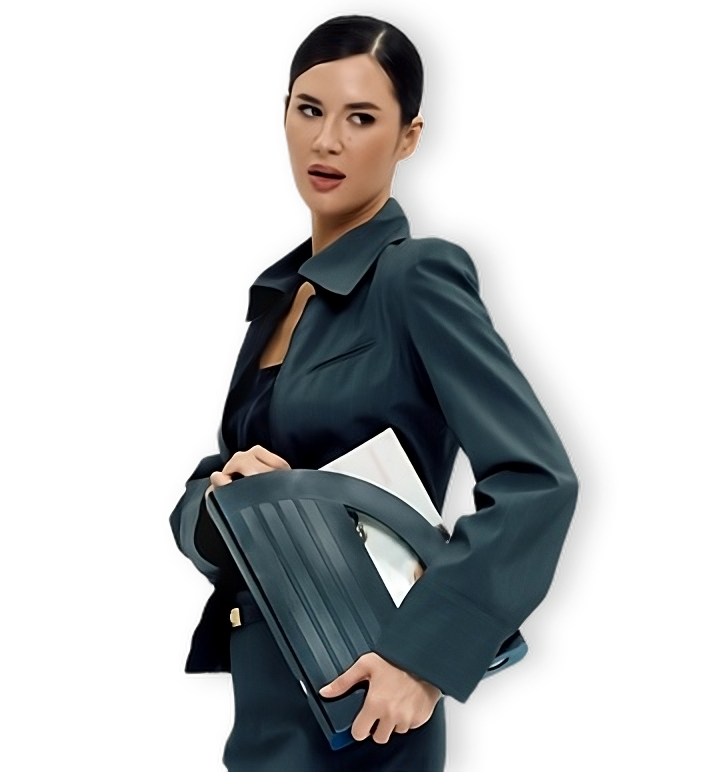
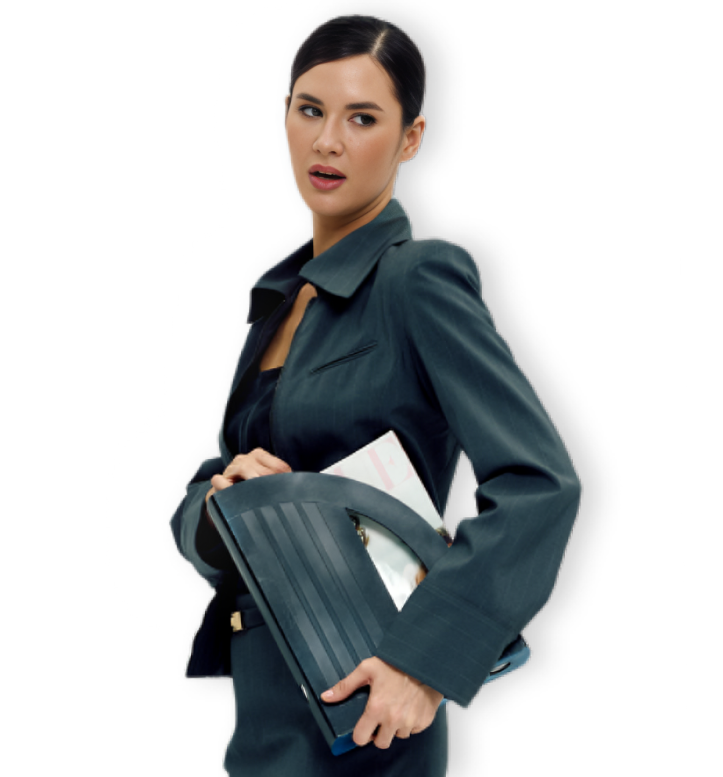
first commit

diff --git a/index.html b/index.html
@@ -54,7 +54,7 @@
                 </div>
               </div>
 
-              <img src="./assets/images/top_img_2.png" alt="Даша Харченко">
+              <img src="./assets/images/top_img_3.png" alt="Даша Харченко">
 
               <div data-aos="zoom-out-left" class="years_experience">
                 <span>7+</span>
